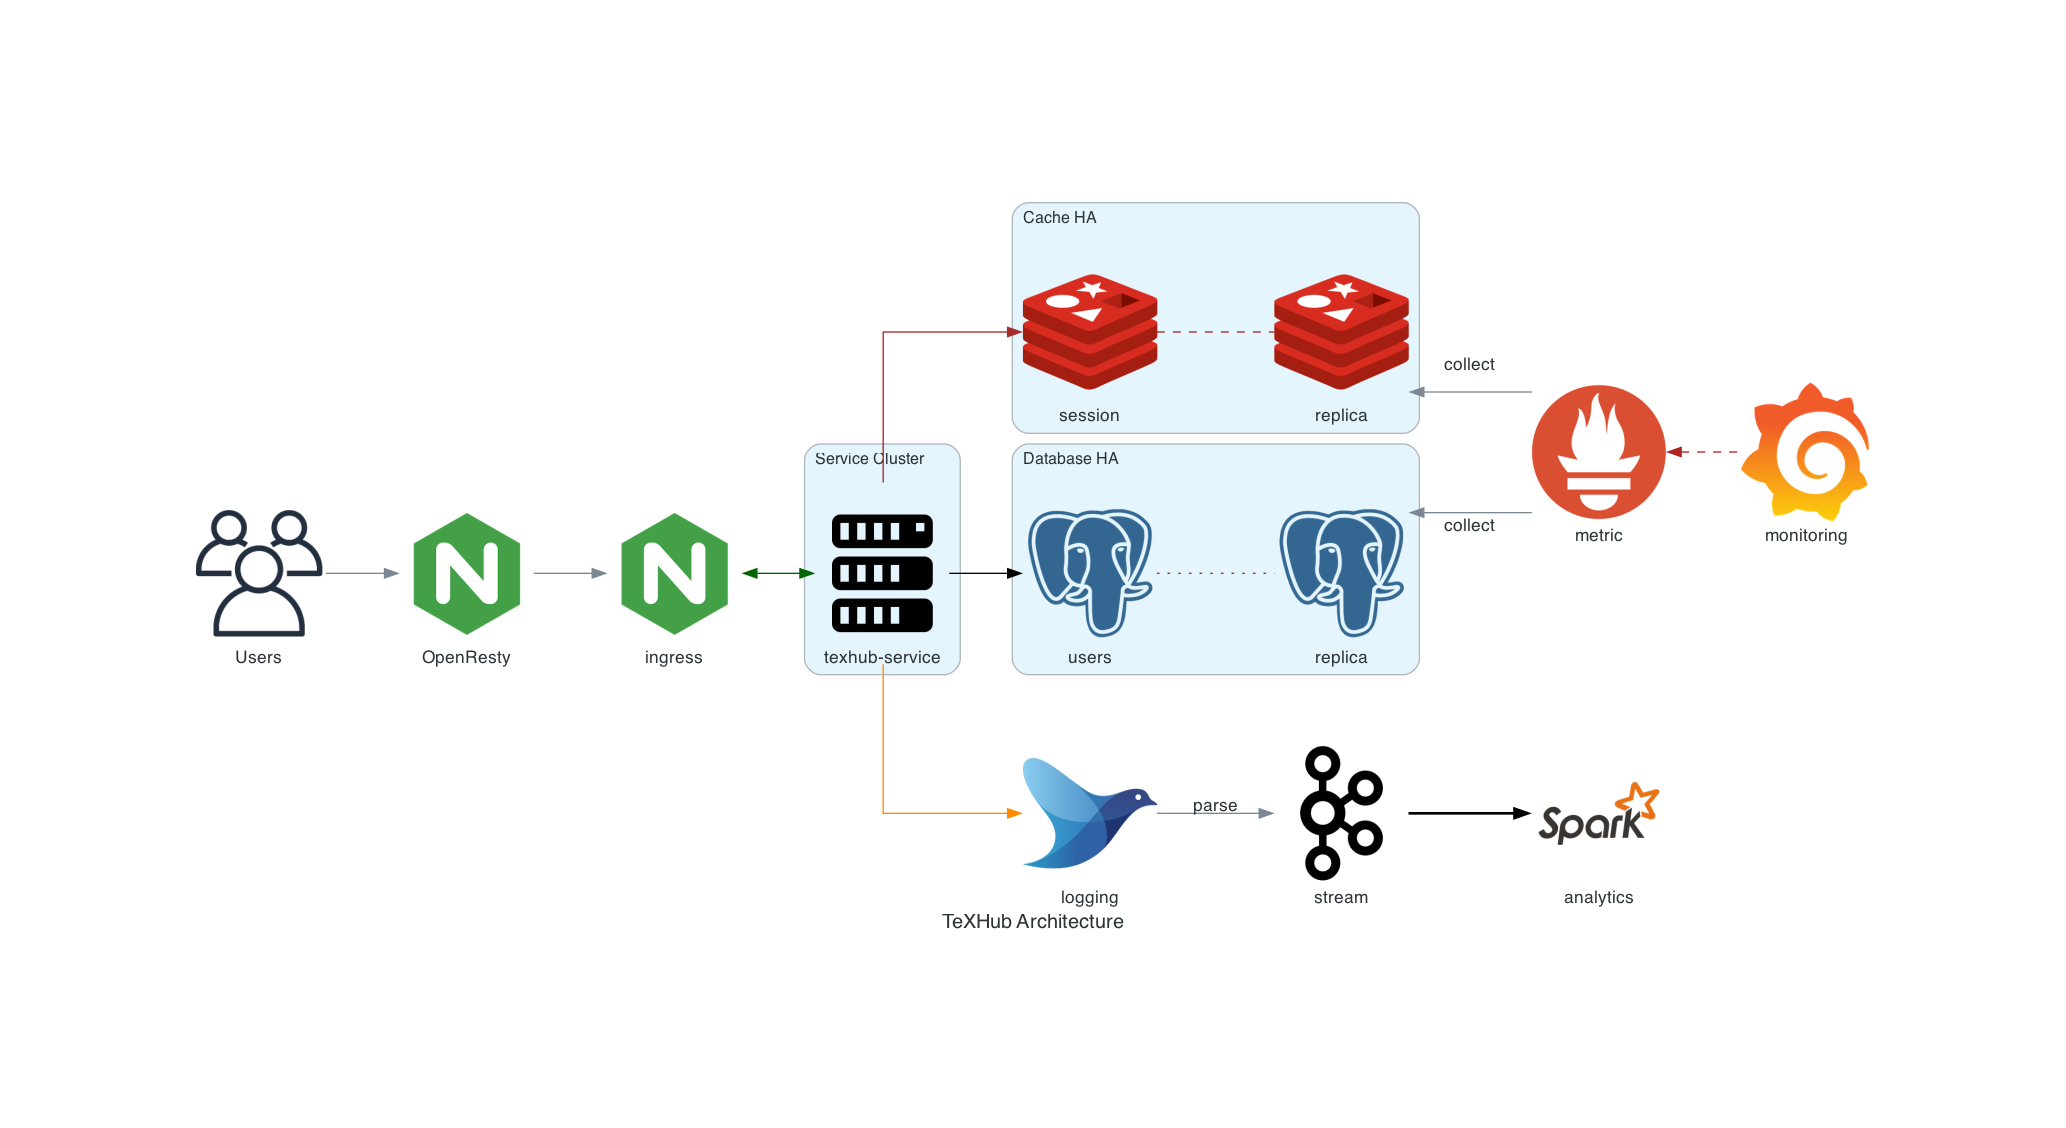
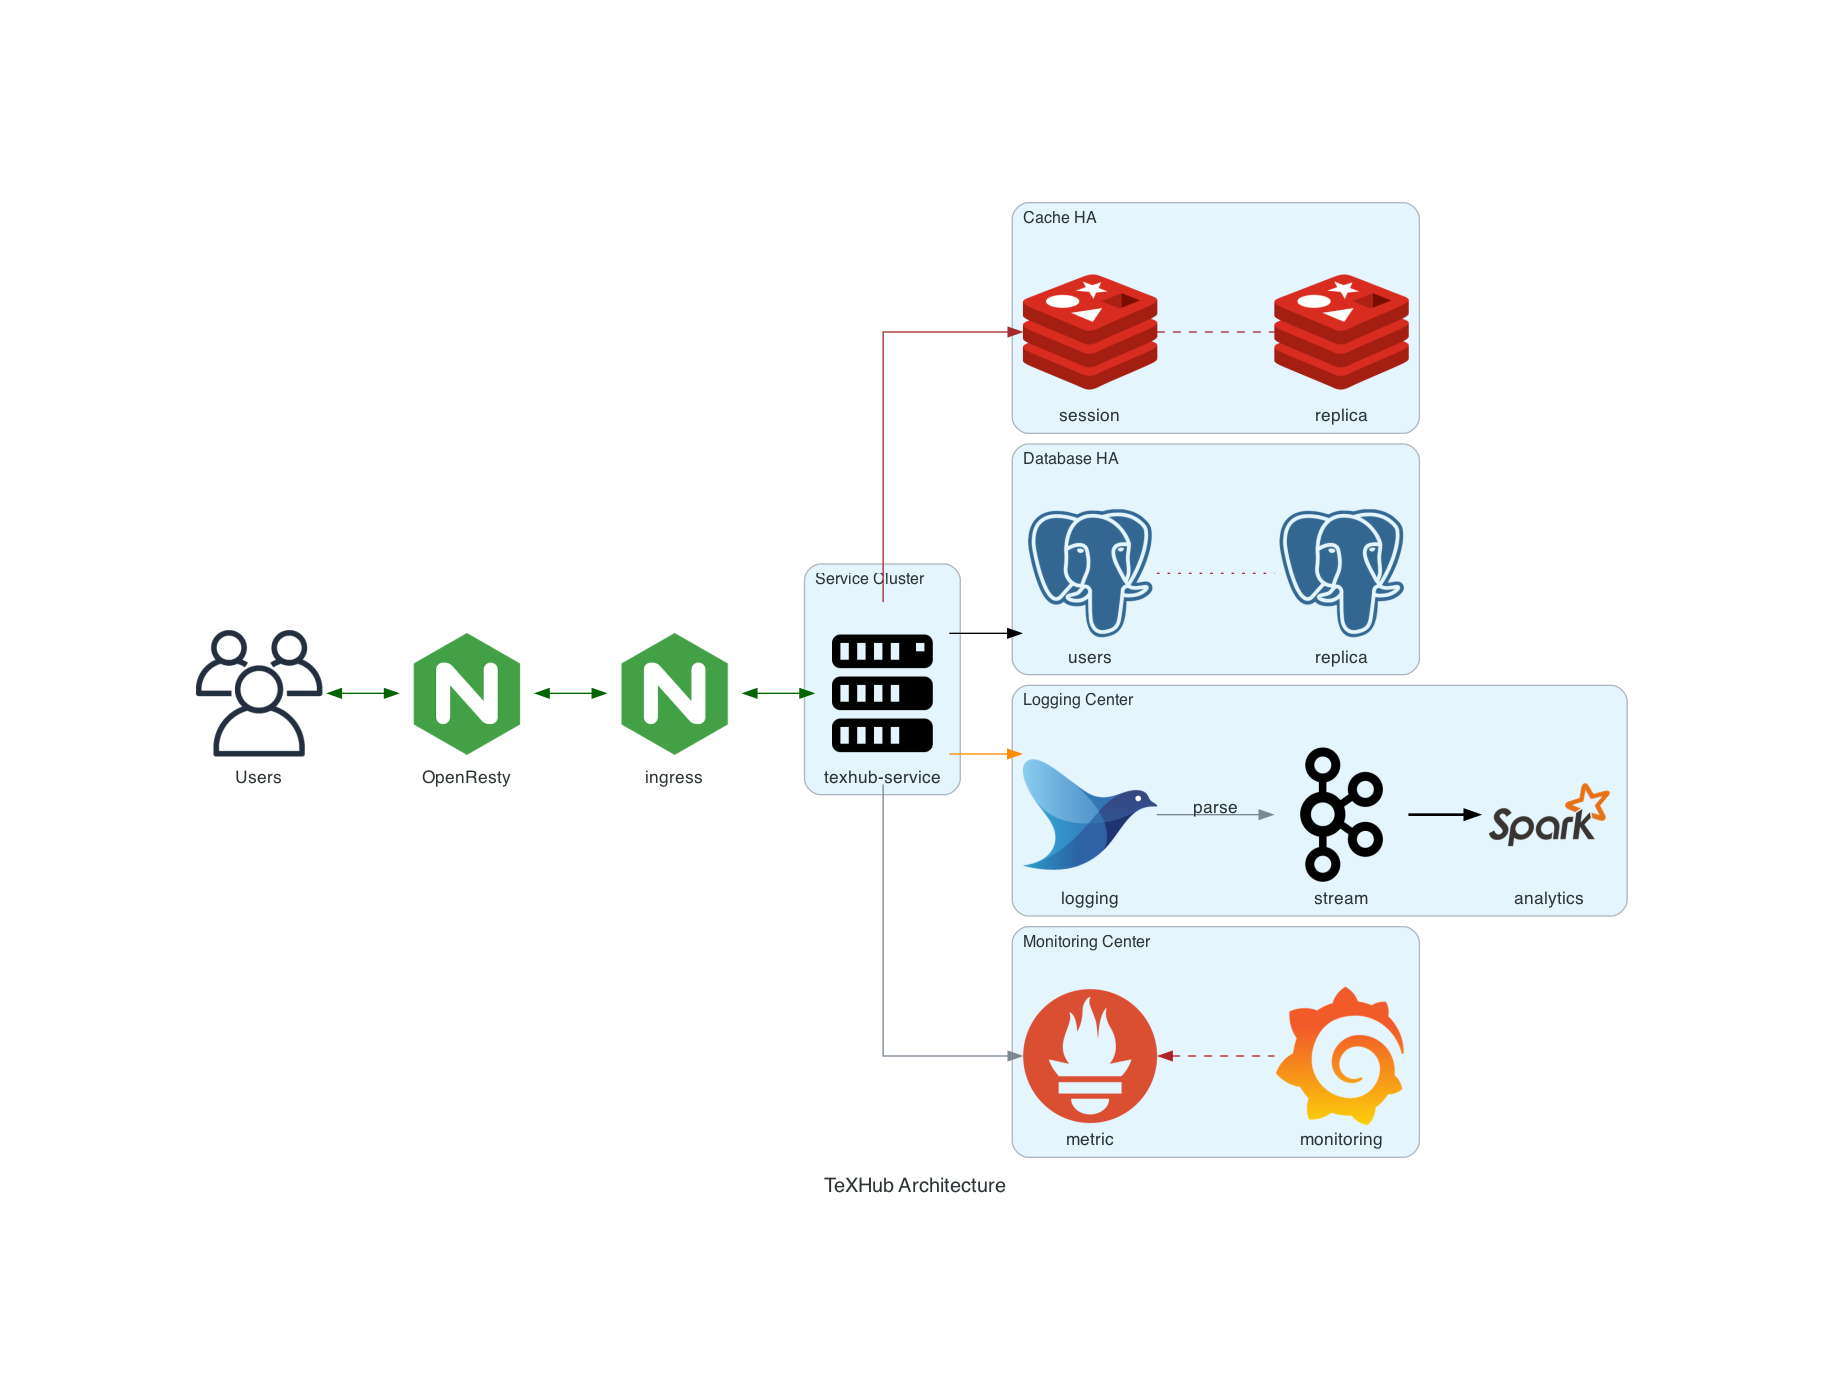
feat: add texhub architecture

Changed region(s): [[0.0934, 0.1241, 0.9033, 0.8688]]

diff --git a/src/diagram.py b/src/diagram.py
@@ -14,9 +14,6 @@ with Diagram(name="TeXHub Architecture", show=False):
     openresty = Nginx("OpenResty")
     ingress = Nginx("ingress")
 
-    metrics = Prometheus("metric")
-    metrics << Edge(color="firebrick", style="dashed") << Grafana("monitoring")
-
     with Cluster("Service Cluster"):
         grpcsvc = [
             Server("texhub-service")
@@ -24,17 +21,23 @@ with Diagram(name="TeXHub Architecture", show=False):
 
     with Cluster("Cache HA"):
         primary = Redis("session")
-        primary - Edge(color="brown", style="dashed") - Redis("replica") << Edge(label="collect") << metrics
+        primary - Edge(color="brown", style="dashed") - Redis("replica") << Edge(label="collect") 
         grpcsvc >> Edge(color="brown") >> primary
 
     with Cluster("Database HA"):
         primary = PostgreSQL("users")
-        primary - Edge(color="brown", style="dotted") - PostgreSQL("replica") << Edge(label="collect") << metrics
+        primary - Edge(color="brown", style="dotted") - PostgreSQL("replica") << Edge(label="collect")
         grpcsvc >> Edge(color="black") >> primary
+    
+    with Cluster("Logging Center"):
+        aggregator = Fluentd("logging")
+        aggregator >> Edge(label="parse") >> Kafka("stream") >> Edge(color="black", style="bold") >> Spark("analytics")
+    
+    with Cluster("Monitoring Center"):
+        metrics = Prometheus("metric")
+        metrics << Edge(color="firebrick", style="dashed") << Grafana("monitoring")
 
-    aggregator = Fluentd("logging")
-    aggregator >> Edge(label="parse") >> Kafka("stream") >> Edge(color="black", style="bold") >> Spark("analytics")
-
+    grpcsvc >> metrics
     ingress >> Edge(color="darkgreen") << grpcsvc >> Edge(color="darkorange") >> aggregator
-    openresty >> ingress
-    users >> openresty 
+    openresty >> Edge(color="darkgreen") <<ingress
+    users >> Edge(color="darkgreen") << openresty 
